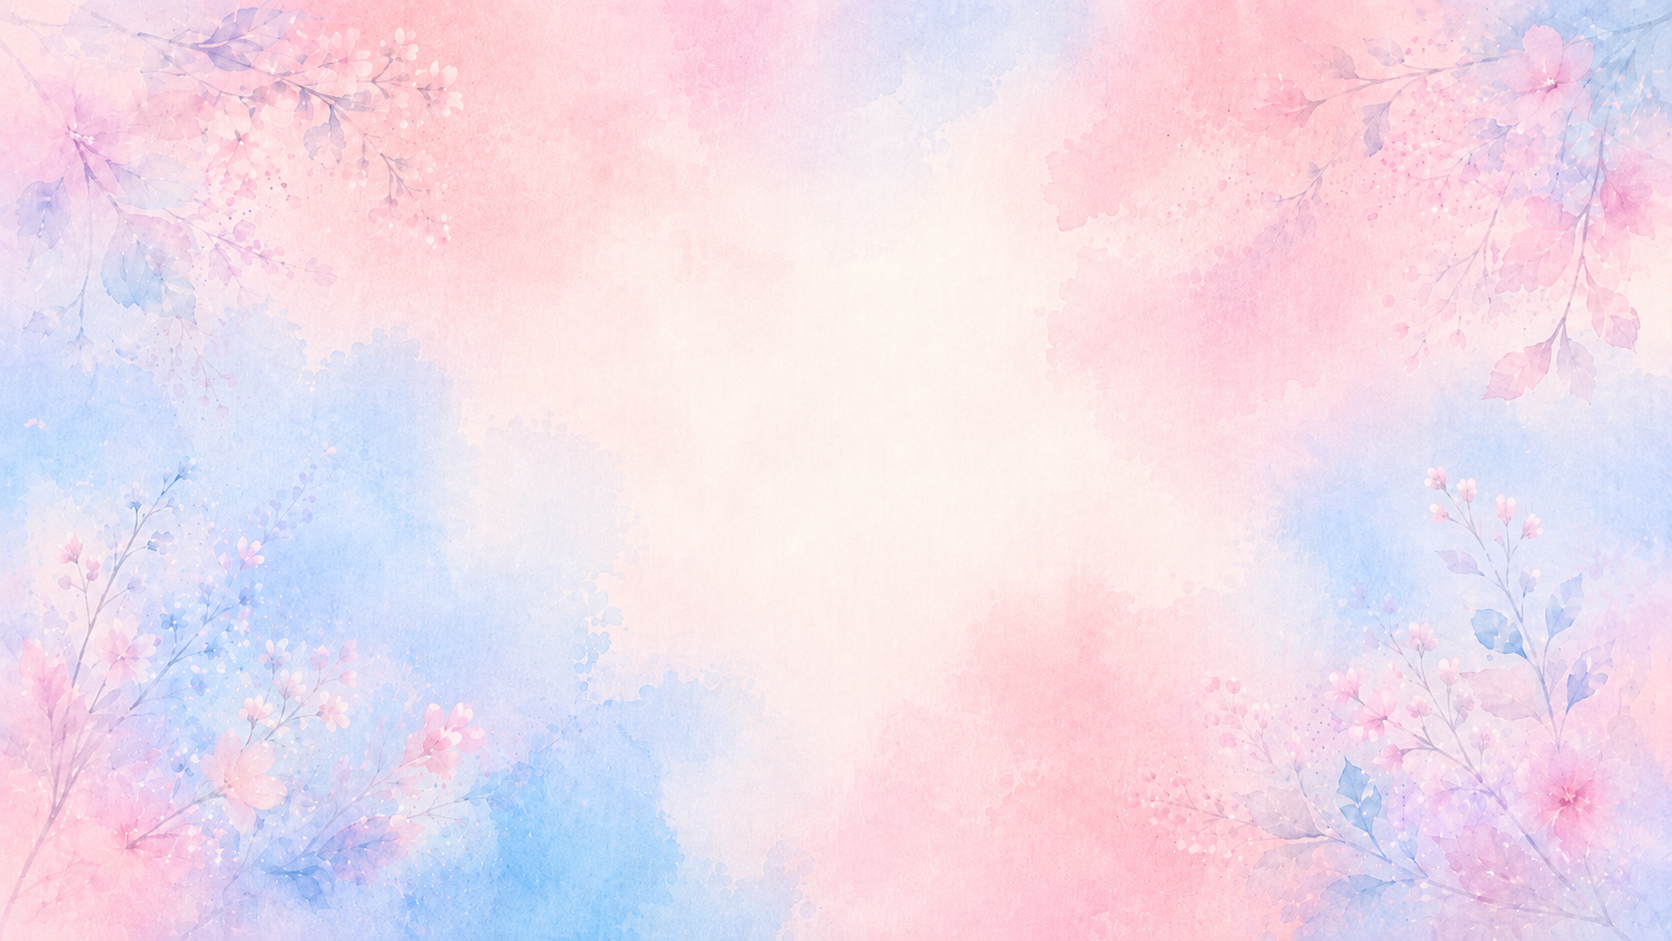
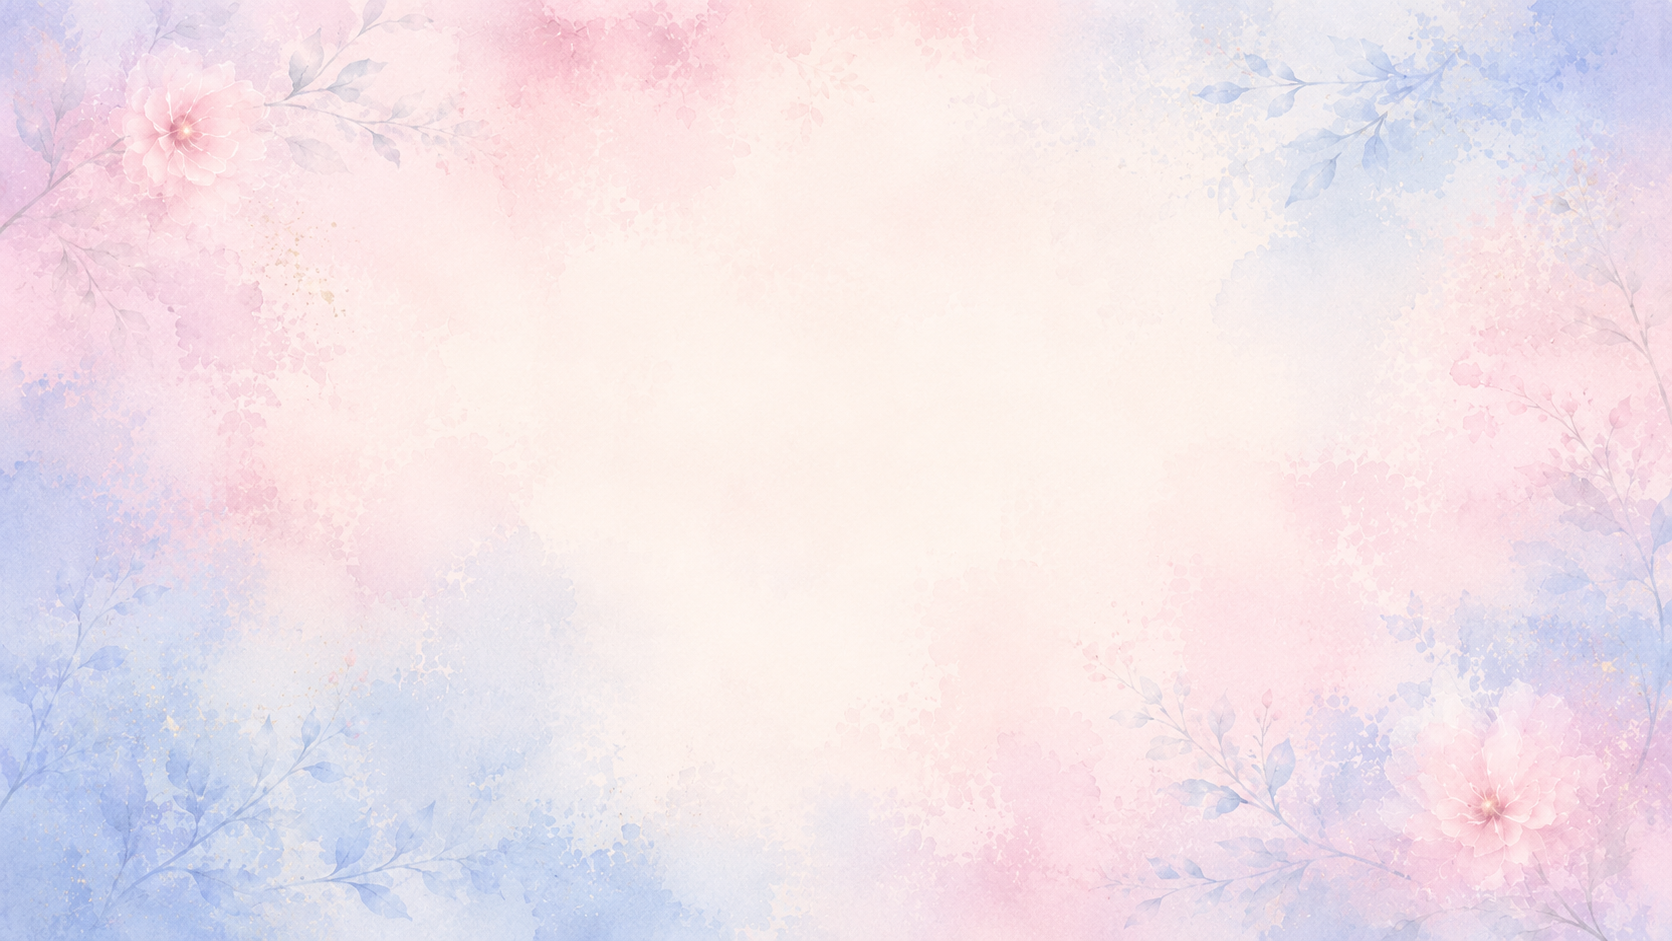
Feat: Update background images and fix mobile background overlay order

diff --git a/src/app/globals.css b/src/app/globals.css
@@ -214,12 +214,6 @@ video::-webkit-media-controls-panel {
   will-change: transform;
 }
 
-@media (max-width: 767px) {
-  .invitation-watercolor-backdrop__wash {
-    background-image: url("/assets/bg-mobile.png");
-  }
-}
-
 .invitation-watercolor-backdrop::before,
 .invitation-watercolor-backdrop::after {
   content: none;
@@ -269,17 +263,13 @@ video::-webkit-media-controls-panel {
     background-image:
       radial-gradient(circle at 12% 14%, rgba(242, 198, 207, 0.34), transparent 35%),
       radial-gradient(circle at 88% 80%, rgba(143, 170, 220, 0.32), transparent 40%),
-      image-set(
-        url("/assets/invitation-watercolor-bg-mobile.avif") type("image/avif"),
-        url("/assets/invitation-watercolor-bg-mobile.webp") type("image/webp"),
-        url("/assets/invitation-watercolor-bg.png") type("image/png")
-      ),
-      linear-gradient(180deg, rgba(253, 251, 247, 0.96), rgba(253, 251, 247, 0.82));
+      linear-gradient(180deg, rgba(253, 251, 247, 0.65), rgba(253, 251, 247, 0.45)),
+      url("/assets/bg-mobile.png");
     background-position:
       12% 14%,
       88% 80%,
-      center top,
-      center;
+      center,
+      center top;
     background-size:
       auto,
       auto,
@@ -296,8 +286,8 @@ video::-webkit-media-controls-panel {
     background-position:
       10% 13%,
       90% 82%,
-      center top,
-      center;
+      center,
+      center top;
     background-size:
       auto,
       auto,